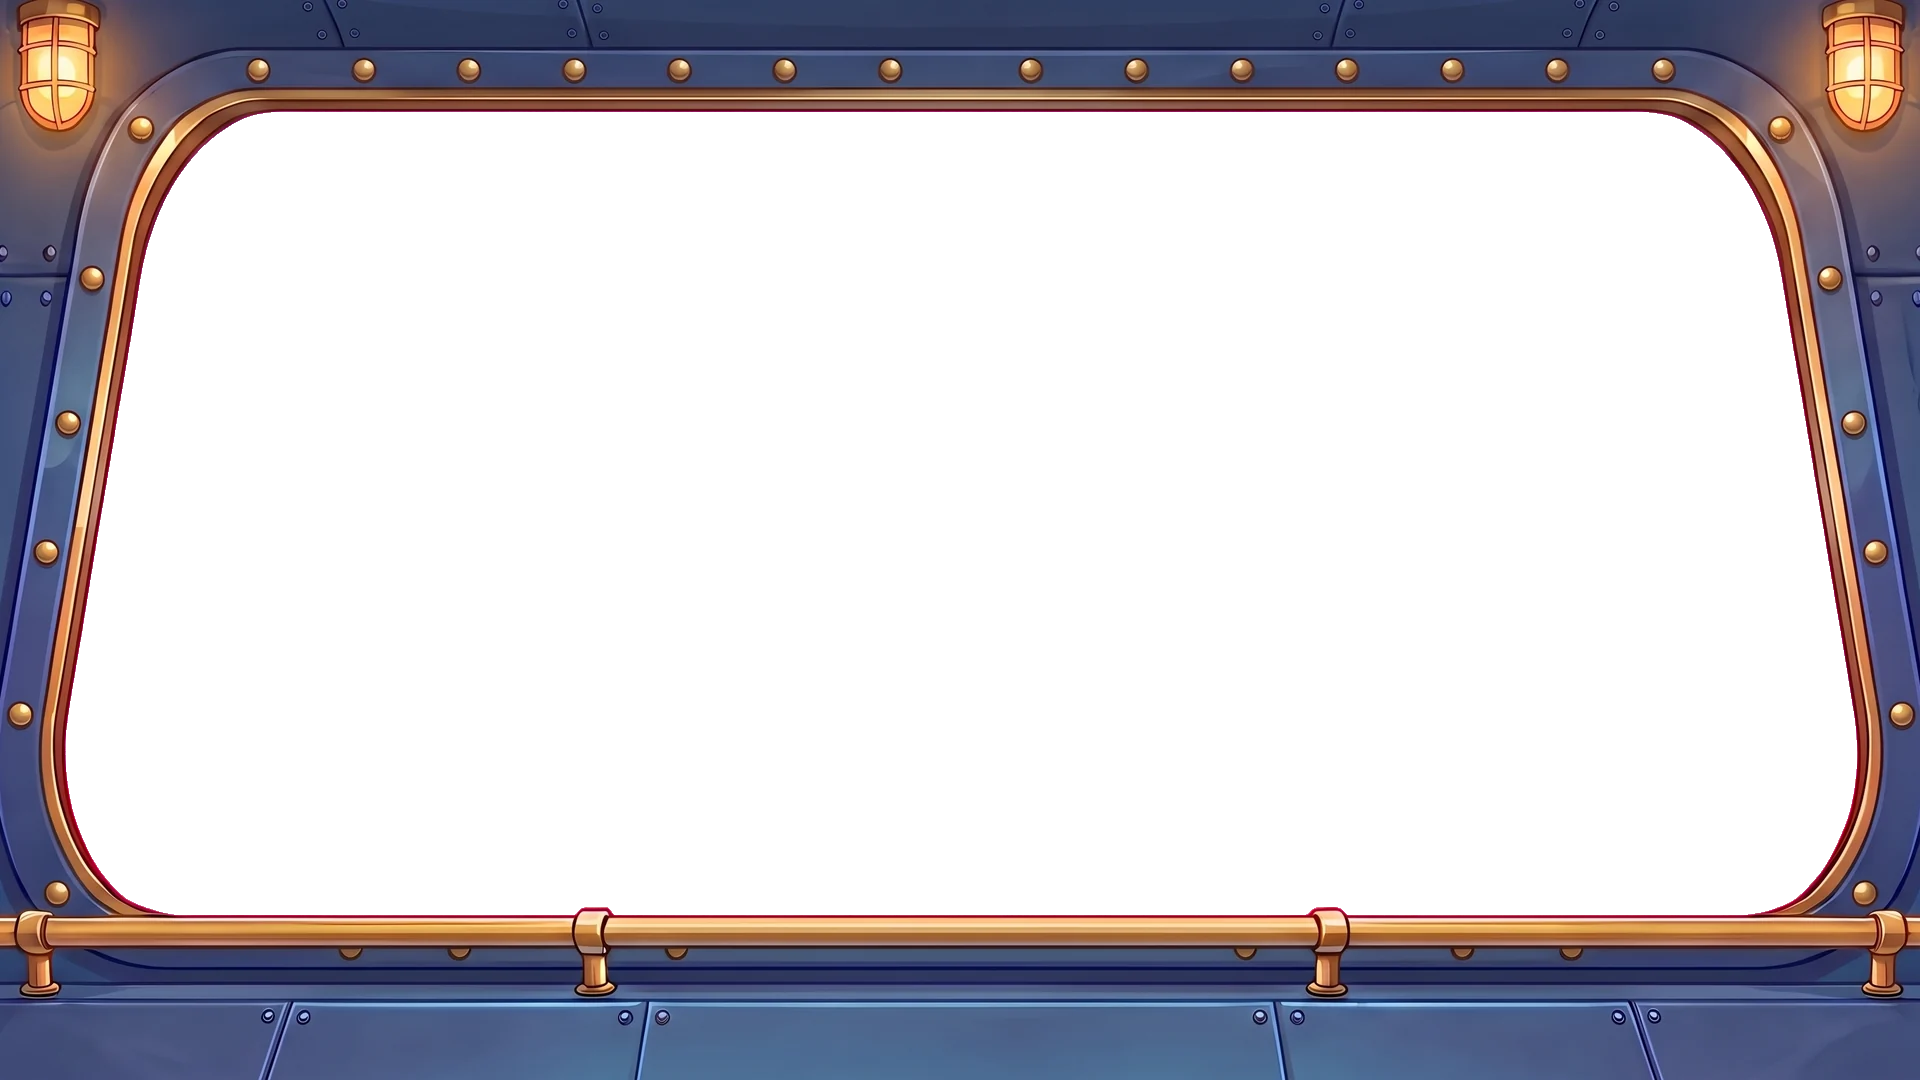
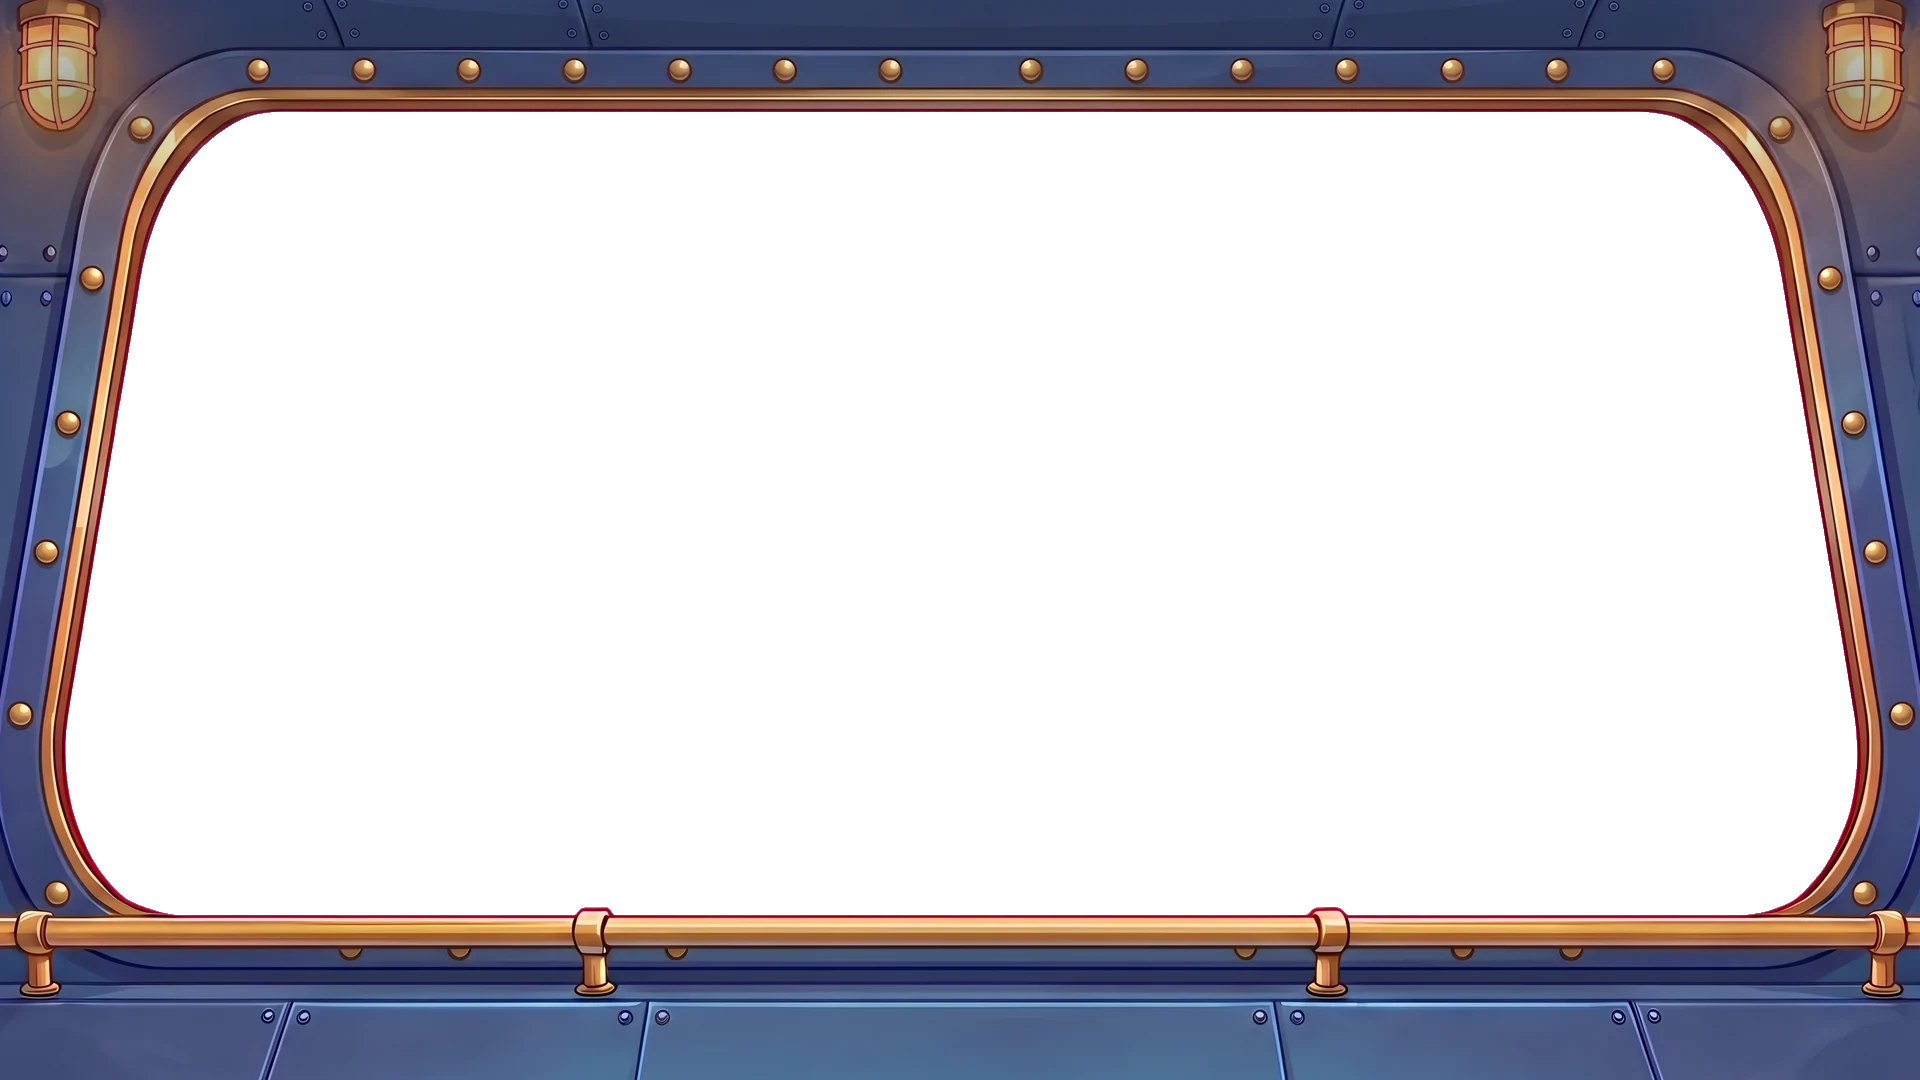
Cut GPU work ~60% so it stays smooth on a Retina screen
Traced in a visible Chrome window (real GPU, 2x display): the GPU spent
~2.6 s of every 6.5 s of play drawing stacked full-screen layers. Now
~1.06 s: the light rays drift without rotating; the reef's tint and fade are
baked into seabed.webp (no mask + filter on a moving layer); the lamp dimmer
is baked into cockpit.webp; vignette + glass and haze + deep tint are merged
into single layers; invisible layers (depth tint, frame glow, sunlight wash,
empty plankton canvas) leave drawing entirely; marine snow redraws at 30 fps.
Slow frames in the visible window: L1 2.0% -> 0.1%, L2 0.4% -> 0.3%,
L3 0.5% -> 0.1%. Looks the same.

Changed region(s): [[0.9062, 0.0, 1.0, 0.1833], [0.0, 0.0, 0.0938, 0.1833]]

diff --git a/css/cockpit.css b/css/cockpit.css
@@ -1,8 +1,8 @@
 /* cockpit: the bow window frame, the cannon, the crew at their stations, the console screen. Loaded after game.css. */
 
 /* glass: a faint sheen and darker edges, under the frame */
-#glass{position:absolute;inset:0;pointer-events:none;
-  background:linear-gradient(112deg,rgba(255,255,255,0) 26%,rgba(255,255,255,.08) 33%,rgba(255,255,255,0) 41%,rgba(255,255,255,0) 58%,rgba(255,255,255,.05) 62%,rgba(255,255,255,0) 66%),
+#glass{position:absolute;inset:0;pointer-events:none;   /* one layer: glass sheen + edge darkening + the old #vignette */
+  background:radial-gradient(ellipse 75% 70% at 50% 38%,rgba(0,0,0,0) 55%,rgba(0,18,48,.5) 100%),linear-gradient(rgba(0,0,0,0) 70%,rgba(0,14,40,.35)),linear-gradient(112deg,rgba(255,255,255,0) 26%,rgba(255,255,255,.08) 33%,rgba(255,255,255,0) 41%,rgba(255,255,255,0) 58%,rgba(255,255,255,.05) 62%,rgba(255,255,255,0) 66%),
     radial-gradient(115% 95% at 50% 42%,rgba(0,0,0,0) 62%,rgba(0,18,46,.5))}
 #cockpit{position:absolute;left:0;top:0;width:1920px;height:1080px;pointer-events:none;user-select:none;-webkit-user-drag:none}
 #crew,#lamps,#screen,#sunk{position:absolute;inset:0;pointer-events:none}
@@ -48,7 +48,8 @@
 #hudbar #strip{position:relative;left:auto;top:auto;flex:1;width:auto;min-height:0;padding:6px 0;background:none;border:none;box-shadow:none;font-size:36px}
 #hudbar #strip::before{display:none}
 #hudbar #pips{position:relative;right:auto;top:auto;flex:none}
-#lampDim{position:absolute;inset:0;pointer-events:none;
+#lampDim{display:none;position:absolute;inset:0;pointer-events:none;   /* baked into cockpit.webp */
+
   background:radial-gradient(circle 150px at 81px 99px,rgba(28,38,72,.42),rgba(28,38,72,0)),radial-gradient(circle 150px at 1839px 98px,rgba(28,38,72,.42),rgba(28,38,72,0))}
 
 /* idle console screen: a slow sonar trace until someone speaks */
@@ -66,8 +67,8 @@
 /* ---- fun layer ---- */
 #visitors,#glassFx{position:absolute;inset:0;pointer-events:none}
 #visitors img{position:absolute;left:0;top:0;transform-origin:50% 50%;filter:drop-shadow(0 8px 14px rgba(0,20,50,.35))}
-#depthTint{position:absolute;inset:0;background:radial-gradient(130% 100% at 50% 0%,rgba(0,18,60,.55),rgba(0,6,30,.9));opacity:0;pointer-events:none}
-#plankton{position:absolute;left:0;top:0;width:1920px;height:1080px;pointer-events:none}
+#depthTint{position:absolute;inset:0;background:radial-gradient(130% 100% at 50% 0%,rgba(0,18,60,.55),rgba(0,6,30,.9));opacity:0;visibility:hidden;pointer-events:none}
+#plankton{position:absolute;left:0;top:0;width:1920px;height:1080px;pointer-events:none;display:none}   /* shown once there is plankton (cockpit.js) */
 .gbub{position:absolute;border-radius:50%;background:radial-gradient(circle at 34% 30%,rgba(255,255,255,.95) 0 14%,rgba(220,250,255,.35) 26%,rgba(170,235,255,.12) 62%,rgba(255,255,255,.55) 76%,rgba(255,255,255,0) 80%)}
 .knock{position:absolute;width:90px;height:90px;margin:-45px 0 0 -45px;border-radius:50%;border:3px solid rgba(230,252,255,.85);box-shadow:0 0 14px rgba(160,240,255,.6)}
 .hitnum{position:absolute;margin:-60px 0 0 -110px;width:220px;text-align:center;font:800 92px/1 Fredoka,sans-serif;color:#fff;-webkit-text-stroke:5px #06264a;paint-order:stroke;
@@ -95,15 +96,16 @@
 .shead{position:absolute;top:510px;width:16px;height:110px;margin-left:-8px;border-radius:8px;pointer-events:none;will-change:left,opacity;
   background:linear-gradient(rgba(127,242,255,0),#bff8ff 50%,rgba(127,242,255,0));box-shadow:0 0 26px 8px rgba(127,242,255,.7)}
 .sring{position:absolute;top:560px;width:120px;height:120px;margin:-60px 0 0 -60px;border-radius:50%;border:4px solid #7ff2ff;box-shadow:0 0 16px rgba(127,242,255,.8);pointer-events:none}
-.sunwash{position:absolute;inset:0;pointer-events:none;opacity:0;will-change:opacity;
+.sunwash{position:absolute;inset:0;pointer-events:none;opacity:0;visibility:hidden;
   background:linear-gradient(rgba(255,244,200,.8),rgba(255,236,170,.35) 30%,rgba(255,230,160,0) 66%)}
-#frameGlow{position:absolute;left:0;top:0;width:1920px;height:1080px;pointer-events:none;opacity:0;will-change:opacity;filter:brightness(1.55) sepia(.55) saturate(2.2)}   /* static filter, only opacity animates */
+#frameGlow{position:absolute;left:0;top:0;width:1920px;height:1080px;pointer-events:none;opacity:0;visibility:hidden;filter:brightness(1.55) sepia(.55) saturate(2.2)}   /* static filter, only opacity animates */
 #current{position:absolute;inset:0;pointer-events:none;overflow:hidden}
 #current .streak{position:absolute;left:0;height:34px;border-radius:50%;opacity:0;will-change:transform,opacity;
   background:radial-gradient(50% 50% at 50% 50%,rgba(220,250,255,.9),rgba(200,245,255,.35) 45%,rgba(200,245,255,0) 72%)}
 #current .surf{position:absolute;left:0;top:96px;width:1920px;height:520px;overflow:hidden;will-change:opacity}
 #current .surf i{position:absolute;left:0;top:0;width:2820px;height:520px;opacity:.2;will-change:transform;background:url(../assets/img/surface_light.webp) 0 0/900px 520px repeat-x}   /* the fade is baked into the image: no mask */
-#current .haze{position:absolute;inset:0;background:radial-gradient(120% 95% at 50% 46%,rgba(10,70,110,0) 58%,rgba(10,70,110,.28) 82%,rgba(6,44,80,.5))}
+#current .haze{display:none;position:absolute;inset:0;   /* merged into #water .deep */
+background:radial-gradient(120% 95% at 50% 46%,rgba(10,70,110,0) 58%,rgba(10,70,110,.28) 82%,rgba(6,44,80,.5))}
 
 /* ---- calm mode (default; QA panel → Full brings everything back) ---- */
 /* only the speaker shows: the other crew member sinks out of view and comes up when they talk */

diff --git a/css/game.css b/css/game.css
@@ -16,10 +16,10 @@ img{-webkit-user-drag:none;user-select:none}
 .track img.flip{transform:scaleX(-1)}
 #water{position:absolute;left:0;top:0;width:1920px;height:1080px;overflow:hidden}
 #water .grad{position:absolute;inset:0;background:url(../assets/img/water.webp) center/100% 100% no-repeat}
-#water .deep{position:absolute;inset:0;background:linear-gradient(rgba(0,40,90,.12),rgba(0,40,90,0) 30%,rgba(0,30,70,.18) 62%,rgba(40,150,205,.22))}
+#water .deep{position:absolute;inset:0;background:radial-gradient(120% 95% at 50% 46%,rgba(10,70,110,0) 58%,rgba(10,70,110,.28) 82%,rgba(6,44,80,.5)),linear-gradient(rgba(0,40,90,.12),rgba(0,40,90,0) 30%,rgba(0,30,70,.18) 62%,rgba(40,150,205,.22))}   /* + the depth haze (was #current .haze) */
 #far{position:absolute;left:0;top:330px;height:440px;opacity:.7}
 #rays{position:absolute;left:-200px;top:-40px;width:2320px;height:900px;background:url(../assets/img/rays.webp) center/100% 100%;opacity:.42;will-change:transform,opacity;transform-origin:30% 0}
-#seabed{position:absolute;left:0;top:560px;height:260px;opacity:.82;filter:saturate(.7) brightness(.9);-webkit-mask-image:linear-gradient(#000 45%,transparent 92%);mask-image:linear-gradient(#000 45%,transparent 92%)}   /* the reef fades into open water below */
+#seabed{position:absolute;left:0;top:560px;height:260px}   /* its tint, opacity and fade are baked into seabed.webp (a mask + filter on a moving layer redrew every frame) */   /* the reef fades into open water below */
 #caustics{position:absolute;left:0;top:0;width:3840px;height:1080px;background:url(../assets/img/caustics.webp) 0 0/512px 512px repeat;opacity:.14;will-change:transform,opacity}
 #bubbles{position:absolute;inset:0;overflow:hidden;pointer-events:none}
 .bub{position:absolute;border-radius:50%;background:radial-gradient(circle at 32% 30%,rgba(255,255,255,.95) 0 12%,rgba(200,245,255,.35) 22%,rgba(160,230,255,.12) 60%,rgba(255,255,255,.45) 72%,rgba(255,255,255,0) 76%)}
@@ -179,7 +179,8 @@ img{-webkit-user-drag:none;user-select:none}
 .fish .tail{transform-box:fill-box;transform-origin:0% 50%;animation:tail .32s ease-in-out infinite alternate}
 @keyframes tail{from{transform:scaleY(.6) skewY(-10deg)}to{transform:scaleY(1.05) skewY(10deg)}}
 #snow{position:absolute;left:0;top:0;width:1920px;height:1080px;pointer-events:none;opacity:.9;will-change:contents}
-#vignette{position:absolute;left:0;top:0;width:1920px;height:1080px;pointer-events:none;
+#vignette{display:none;position:absolute;left:0;top:0;width:1920px;height:1080px;pointer-events:none;   /* merged into #glass (cockpit.css) */
+
   background:radial-gradient(ellipse 75% 70% at 50% 38%,rgba(0,0,0,0) 55%,rgba(0,18,48,.5) 100%),linear-gradient(rgba(0,0,0,0) 70%,rgba(0,14,40,.35))}
 #flash{position:absolute;inset:0;pointer-events:none;background:radial-gradient(circle at var(--fx,50%) var(--fy,60%),rgba(255,245,200,.6),rgba(255,200,120,.16) 30%,rgba(0,0,0,0) 60%);opacity:0;will-change:opacity}
 

diff --git a/js/world.js b/js/world.js
@@ -56,7 +56,7 @@
     for (const L of LAYERS) { L.x = (L.x + L.speed * s) % (2 * L.w); L.t.style.transform = `translate3d(${-L.x}px,0,0)`; }
     caus.x = (caus.x + 26 * s) % 512; cEl.style.transform = `translate3d(${-caus.x}px,${Math.sin(time * .6) * 6}px,0)`;
   });
-  gsap.to('#rays', { rotation: 3.5, x: 60, duration: 6, yoyo: true, repeat: -1, ease: 'sine.inOut' });
+  gsap.to('#rays', { x: 60, duration: 6, yoyo: true, repeat: -1, ease: 'sine.inOut' });   // drift only: rotating this big layer redrew it every frame
   gsap.to('#rays', { opacity: .3, duration: 3.1, yoyo: true, repeat: -1, ease: 'sine.inOut' });
   gsap.to('#caustics', { opacity: .22, duration: 2.2, yoyo: true, repeat: -1, ease: 'sine.inOut' });
   gsap.to('#far', { y: 8, duration: 5, yoyo: true, repeat: -1, ease: 'sine.inOut' });
@@ -64,9 +64,11 @@
   /* ---- marine snow (tiny drifting specks: the strongest "we are underwater" cue) ---- */
   const snow = $('#snow'), sctx = snow.getContext('2d'), SN = []; sctx.scale(.5, .5);   // half-resolution canvas, CSS shows it full size
   for (let i = 0; i < 110; i++) SN.push({ x: Math.random() * 1920, y: Math.random() * 1080, z: .3 + Math.random() * .7, ph: Math.random() * 6 });
+  let snowDt = 0, snowOdd = false;
   gsap.ticker.add((t, dt) => {
     if (SD.paused) return;
-    const s = dt / 1000 * SD.rate; sctx.clearRect(0, 0, 1920, 1080);
+    snowDt += dt; snowOdd = !snowOdd; if (snowOdd) return;   // 30 fps is plenty for slow specks and halves the canvas uploads
+    const s = snowDt / 1000 * SD.rate; snowDt = 0; sctx.clearRect(0, 0, 1920, 1080);
     for (const p of SN) {
       p.y += (6 + 14 * p.z) * s; p.x -= (8 + 34 * p.z) * s * W.mult; p.x += Math.sin(t * .8 + p.ph) * .25;
       if (p.y > 1088) p.y = -6; if (p.x < -10) p.x = 1930;

diff --git a/js/fx.js b/js/fx.js
@@ -49,7 +49,7 @@
   });
   // the blast's light lands on the metal frame: a pre-tinted copy of the frame fades in and out (opacity only — no per-frame filter)
   const glow = new Image(); glow.src = 'assets/img/cockpit.webp'; glow.id = 'frameGlow'; $('#cockpit').after(glow);
-  function frameFlash() { gsap.fromTo(glow, { opacity: 0 }, { keyframes: [{ opacity: 1, duration: .07 }, { opacity: 0, duration: .7, ease: 'power2.out' }] }); }
+  function frameFlash() { gsap.fromTo(glow, { autoAlpha: 0 }, { keyframes: [{ autoAlpha: 1, duration: .07 }, { autoAlpha: 0, duration: .7, ease: 'power2.out' }] }); }
 
   /* ---------- 4 · break in two  +  6 · the distance beam ---------- */
   const sunk = $('#sunk'), scale = $('#scale');
@@ -140,8 +140,8 @@
   /* ---------- 8 · level complete: we surface into sunlight, the stars slam down ---------- */
   const done = $('#done'), wash = el('sunwash', $('#water'));
   new MutationObserver(() => {
-    if (done.classList.contains('hidden')) { gsap.to(wash, { opacity: 0, duration: 1.2 }); gsap.to('#rays', { filter: 'brightness(1)', duration: 1.2 }); return; }
-    gsap.to(wash, { opacity: 1, duration: 1.4, ease: 'sine.out' }); gsap.to('#rays', { filter: 'brightness(1.9)', duration: 1.4 });
+    if (done.classList.contains('hidden')) { gsap.to(wash, { autoAlpha: 0, duration: 1.2 }); gsap.to('#rays', { filter: 'brightness(1)', duration: 1.2 }); return; }
+    gsap.to(wash, { autoAlpha: 1, duration: 1.4, ease: 'sine.out' }); gsap.to('#rays', { filter: 'brightness(1.9)', duration: 1.4 });
     for (let i = 0; i < 14; i++) setTimeout(() => W.spawnBubble(true), i * 70);
     snd.noise(1.4, .12, 1800, 0, 300);
     [392, 494, 587, 784].forEach((f, i) => snd.tone('sine', f, 0, 1.6, .05, .1 + i * .08));

diff --git a/js/cockpit.js b/js/cockpit.js
@@ -204,9 +204,10 @@
     const d = DEPTH[k]; visited = false;
     if (d && d[0] !== D.lvl) {
       D.lvl = d[0];
-      gsap.to(tint, { opacity: [0, .12, .2, .27, .34][D.lvl], duration: 1.8, ease: 'sine.inOut' });
+      gsap.to(tint, { autoAlpha: [0, .12, .2, .27, .34][D.lvl], duration: 1.8, ease: 'sine.inOut' });
       gsap.to(D, { m: d[1], duration: 1.8, ease: 'power1.inOut', onUpdate: showDepth });
       for (let i = 0; i < 12; i++) setTimeout(() => W.spawnBubble(true), i * 90);   // we dive: bubbles rush up past the window
+      if (!SD.CALM) pk.style.display = 'block';
       while (!SD.CALM && PK.length < D.lvl * 14) PK.push({ x: Math.random() * 1920, y: 140 + Math.random() * 760, r: 2.4 + Math.random() * 3.2, v: 6 + Math.random() * 14,
         f: .8 + Math.random() * 1.6, ph: Math.random() * 6, a: .5 + Math.random() * .5, c: ['#9ff6ff', '#c7b3ff', '#7dffc8'][PK.length % 3] });
     }
